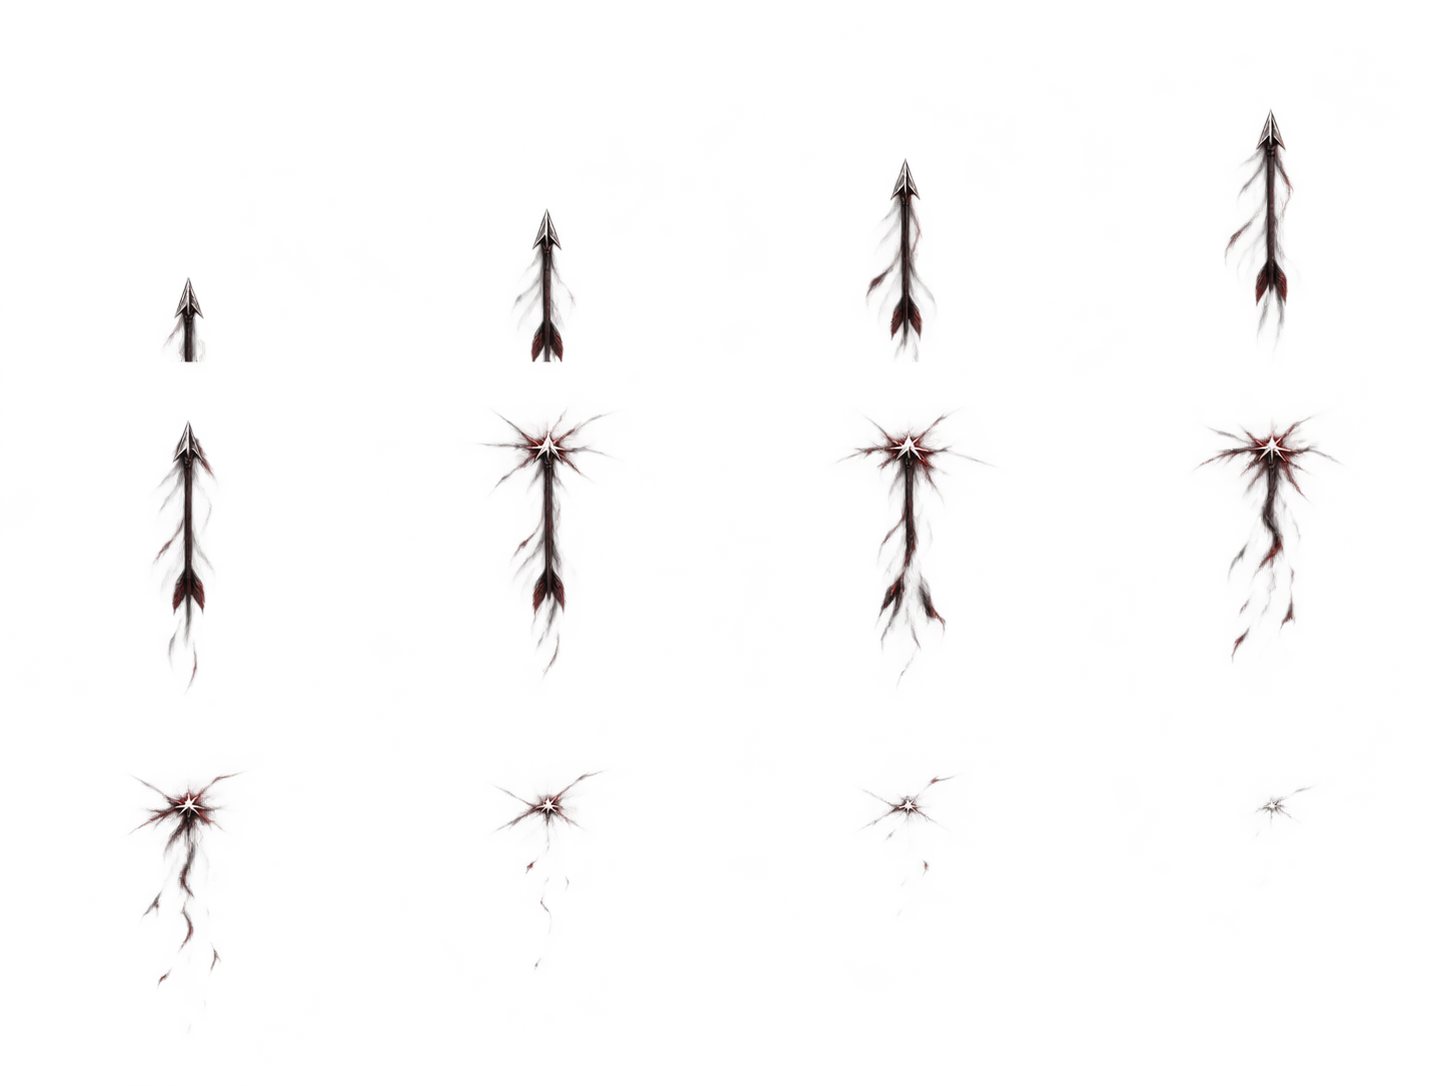
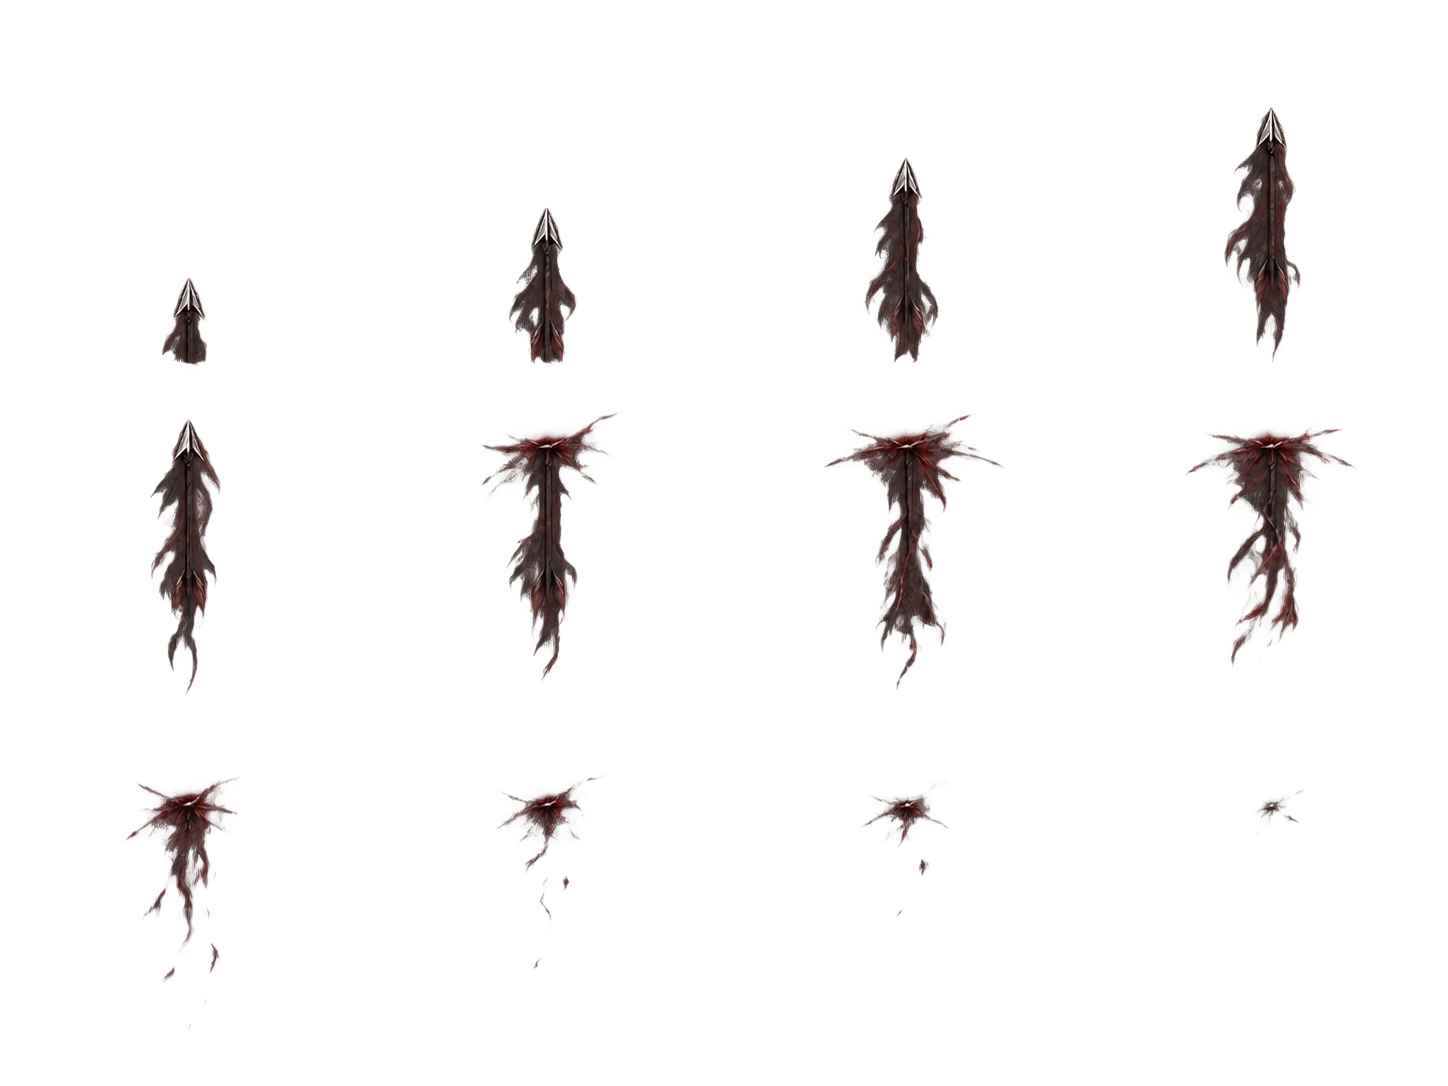
預覽：弓放弦疊加發射聲，命中改為黑紅刺入碎痕

diff --git a/preview/bow/runtime.js b/preview/bow/runtime.js
@@ -6,14 +6,14 @@
  const api=window.ZCBOWPV={ready:false,playing:false,frames:[],events:[],mode:'bow'};
  const sounds={bowdraw:'sfx/bowdraw.mp3',bowimpact:'sfx/bowimpact.mp3',crossbowshot:'preview/bow/crossbow-dry.wav'};
  async function audioReady(){const ac=audio();await ac.resume();for(const [k,path] of Object.entries(sounds))if(!BUF[k]){const bytes=await (await fetch(path)).arrayBuffer();BUF[k]=await ac.decodeAudioData(bytes)}}
- function controls(){const ch=document.getElementById('choices');ch.innerHTML='<p class="note">'+(api.mode==='bow'?'弓':'弩')+'射擊動畫預覽・俐落版・未部署</p><div style="display:flex;gap:8px;flex-wrap:wrap"><button class="btn" id="zc-bow-preview-bow">播放弓射擊</button><button class="btn" id="zc-bow-preview-crossbow">播放弩射擊</button></div><p class="note">箭矢由下往上射入血條；弓保留原音；弩改用乾爽發射聲、不播放拉弦。</p>';ch.querySelector('#zc-bow-preview-bow').onclick=()=>play('bow');ch.querySelector('#zc-bow-preview-crossbow').onclick=()=>play('crossbow')}
+ function controls(){const ch=document.getElementById('choices');ch.innerHTML='<p class="note">'+(api.mode==='bow'?'弓':'弩')+'射擊動畫預覽・俐落版・未部署</p><div style="display:flex;gap:8px;flex-wrap:wrap"><button class="btn" id="zc-bow-preview-bow">播放弓射擊</button><button class="btn" id="zc-bow-preview-crossbow">播放弩射擊</button></div><p class="note">箭矢由下往上射入血條；弓放弦疊加乾爽發射聲；弩不播放拉弦。命中改為黑紅刺入碎痕。</p>';ch.querySelector('#zc-bow-preview-bow').onclick=()=>play('bow');ch.querySelector('#zc-bow-preview-crossbow').onclick=()=>play('crossbow')}
  function frameAt(elapsed,durations){let end=0;for(let f=0;f<12;f++){end+=durations[f];if(elapsed<end)return f}return -1}
  async function play(mode){
   if(api.playing||!api.ready)return;api.playing=true;api.mode=mode;api.frames=[];api.events=[];
   try{
    UI.snd=1;await audioReady();stopSfx();stopAmbience();const target=G.fight.foes[0];target.hp=target.max;draw();controls();document.querySelectorAll('#choices button').forEach(e=>e.disabled=true);
    const start=performance.now(),launch=mode==='bow'?1010:100,durations=[25,25,25,25,30,25,20,20,20,20,25,30],impact=launch+durations.slice(0,5).reduce((a,b)=>a+b,0),end=launch+durations.reduce((a,b)=>a+b,0);let hit=false,last=-1;
-   api.start=start;api.impact=impact;api.events.push({name:'sound',source:mode==='bow'?'bowdraw':'crossbowshot',at:0});if(mode==='bow')sfx('bowdraw',1);else window.play('crossbowshot',sfxLevel('bowdraw',1),1000);window.play('bowimpact',sfxLevel('bowimpact',1),2000,mode==='bow'?.91:0);
+   api.start=start;api.impact=impact;api.events.push({name:'sound',source:mode==='bow'?'bowdraw':'crossbowshot',at:0});if(mode==='bow'){sfx('bowdraw',1);window.play('crossbowshot',sfxLevel('bowdraw',1),1000,1.01)}else window.play('crossbowshot',sfxLevel('bowdraw',1),1000);window.play('bowimpact',sfxLevel('bowimpact',1),2000,mode==='bow'?.91:0);
    await new Promise(resolve=>{function render(){
     const elapsed=performance.now()-start;
     if(!hit&&elapsed>=impact){hit=true;target.hp-=6;draw();controls();document.querySelectorAll('#choices button').forEach(e=>e.disabled=true);api.events.push({name:'hit',at:elapsed})}

diff --git a/preview/bow/video.py b/preview/bow/video.py
@@ -9,8 +9,11 @@ for i,t in enumerate(starts):
     bow=d['shots'][i]['mode']=='bow'
     for j,gain in [(0,.86*.92*.85),(1,.86*.92*.8)]:
         name=f'a{i}{j}';delay=round((t+(.91 if j and bow else 0))*1000);source=(1 if bow else 3) if j==0 else 2;filters.append(f'[{source}:a]volume={gain},adelay={delay}:all=1[{name}]');names.append(f'[{name}]')
+for i,t in enumerate(starts):
+    if d['shots'][i]['mode']=='bow':
+        name=f'layer{i}';filters.append(f'[3:a]volume={.86*.92*.85},adelay={round((t+1.01)*1000)}:all=1[{name}]');names.append(f'[{name}]')
 duration=(frames[-1]['at']-frames[0]['at'])/1000+.04
 filters.append(''.join(names)+f'amix=inputs={len(names)}:normalize=0,asetpts=N/SR/TB,apad=pad_dur=0.5[a]')
 filters.append('[0:v]fps=30[v]')
 subprocess.run(['ffmpeg','-hide_banner','-loglevel','warning','-y','-f','concat','-safe','0','-i',str(r/'frames.ffconcat'),'-i','sfx/bowdraw.mp3','-i','sfx/bowimpact.mp3','-i','preview/bow/crossbow-dry.wav','-filter_complex',';'.join(filters),'-map','[v]','-map','[a]','-c:v','libx264','-crf','17','-pix_fmt','yuv420p','-c:a','aac','-b:a','160k','-movflags','+faststart','-t',str(duration),str(r/'bow-crossbow-preview.mp4')],check=True)
-(r/'video-timing.json').write_text(json.dumps({'shotStarts':starts,'impactSourceOffset':.91,'audio':'原遊戲音檔依實際播放時鐘對時合成'},ensure_ascii=False,indent=2))
+(r/'video-timing.json').write_text(json.dumps({'shotStarts':starts,'impactSourceOffset':{'bow':.91,'crossbow':0},'bowReleaseLayerOffset':1.01,'audio':'原遊戲音檔依實際播放時鐘對時合成'},ensure_ascii=False,indent=2))

diff --git a/docs/audio/LICENSES_AND_ORIGINS.md b/docs/audio/LICENSES_AND_ORIGINS.md
@@ -64,4 +64,4 @@
 
[1 lines of base64/hex data omitted]
 
-改作用於弩的發射聲，弓不變；命中仍使用既有bowimpact。預覽內的「製作與授權」已補作者、來源、CC BY 4.0與改作說明，作者未替遊戲背書。正式index.html尚未修改，正式整合時必須將此署名一併加入Credits。處理可由 `preview/bow/process-crossbow.py INPUT.wav OUTPUT.wav` 重現。
+改作用於弩的發射聲，亦依主人後續指示在弓放弦時疊加同一乾爽發射聲；命中仍使用既有bowimpact。預覽內的「製作與授權」已補作者、來源、CC BY 4.0與改作說明，作者未替遊戲背書。正式index.html尚未修改，正式整合時必須將此署名一併加入Credits。處理可由 `preview/bow/process-crossbow.py INPUT.wav OUTPUT.wav` 重現。

diff --git a/preview/bow/README.md b/preview/bow/README.md
@@ -1,6 +1,10 @@
 # 弓弩射擊預覽（未部署）
 
-## 最新決定：弩獨立發射聲
+## 最新決定：弓疊加發射聲、黑紅刺入命中
+
+主人要求弓放弦時也疊加乾爽弩發射聲，補足射出力道；疊加點1.01秒，弩維持直接播放。兩者最後皆保留肉體命中聲，圖集第6～12格改成暗紅刺入痕、黑紅碎屑與纖維撕裂，移除白色星狀發光。尺寸、方向及130ms飛行／160ms收尾不變。
+
+## 前版決定：弩獨立發射聲
 
 主人改為弩不播放拉弦：使用其提供Erdie bow02.wav的乾爽改作，保留彈射前緣、減弱嗡鳴與拖尾。弩100ms出箭、230ms命中；弓維持俐落版1010ms出箭、1140ms命中。兩者飛行130ms、碎散160ms不變，弩無拉弦等待。來源及授權詳見 docs/audio/LICENSES_AND_ORIGINS.md；單檔預覽的Credits亦已署名。
 
